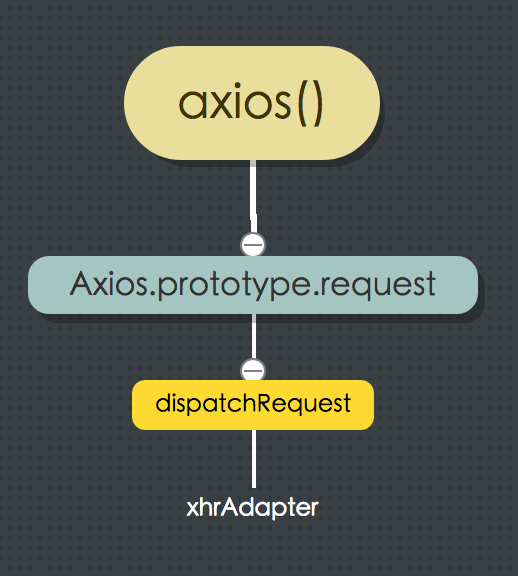
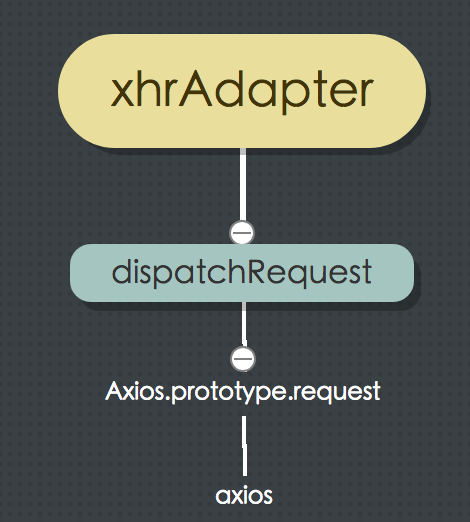
up promise-tree.png

Changed region(s): [[0.0298, 0.0613, 0.9234, 0.9808]]

diff --git a/README.md b/README.md
@@ -741,7 +741,8 @@ axios.get(/**/)
 
 #### 源码分析
 
-先来一个图简单的概括下promise的顺序流：
+先来一个图简单的了解下axios项目里，http请求完成后到达用户的顺序流：
+
 ![](promise-tree.png)
 
 通过[axios为何会有多种使用方式](#axios为何会有多种使用方式)我们知道，
